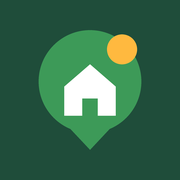
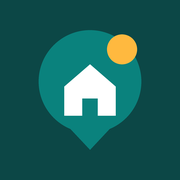
サイトの色を落ち着いた青緑に変え、見た目の気になる点を直す
- 帯・ボタン・ロゴ・グラフの色を青緑に（暗い画面用、タブのアイコン、シェア画像も）。ボタンの白い文字が読める濃さにした
- トップの「最近できたグループホーム」の都道府県一覧をたたむ（スマホ。パソコンは開いたまま）
- 検索欄の例文を短くして、スマホで切れないようにした
- トップの「2026.9」を「2026年9月末」の表示に
- パソコンの事業所ページを左右2列にして、右側の空きをなくした

Claude-Session: https://claude.ai/code/session_01NypjdTHjaH8SLm9PPpyy4n

Changed region(s): [[0.1944, 0.1667, 0.8056, 0.8333]]

diff --git a/site/assets/site.css b/site/assets/site.css
@@ -1,29 +1,29 @@
 /* ジモふく
    Layout: 白いヘッダーの下に、地図を思わせる点模様の濃紺の帯（見出し・検索・タイル地図）。
-   帯は若葉色の深い緑。本文は明るい紙面に「目的」と「地域」の入口を大きく並べ、データは下にまとめる。
+   帯は深い青緑。本文は明るい紙面に「目的」と「地域」の入口を大きく並べ、データは下にまとめる。
    書体は丸ゴシック（見出し）＋ UD ゴシック（本文、読みやすさ優先）＋ 細長い欧文（数字）。 */
 :root {
-  --ink: #1f4d3a;          /* 帯の地色（深い緑） */
-  --ink-2: #2c6650;
-  --on-ink: #f4faf5;
-  --on-ink-muted: #b9d6c4;
-  --bg: #f6f9f4;
+  --ink: #0c4746;          /* 帯の地色（深い青緑） */
+  --ink-2: #155f5c;
+  --on-ink: #f2fbfa;
+  --on-ink-muted: #a8d5d0;
+  --bg: #f3f9f8;
   --surface: #ffffff;
-  --fg: #1c2a21;
-  --muted: #5b6c60;
-  --line: #dfe8db;
-  --brand: #3d9a58;        /* ジモふくの若葉色。ロゴ・ボタン・強調 */
+  --fg: #16292a;
+  --muted: #566b6a;
+  --line: #d8e8e6;
+  --brand: #0a827d;        /* ジモふくの青緑。ロゴ・ボタン・強調（白い文字が読める濃さ） */
   --on-brand: #ffffff;
-  --accent: #2d7a45;       /* 文字やグラフの緑（白地で読める濃さ） */
-  --accent-on-ink: #a6e8b4;
-  --accent-soft: #e2f2e2;
-  --bar: #b2dbb9;
+  --accent: #0b736f;       /* 文字やグラフの青緑（白地で読める濃さ） */
+  --accent-on-ink: #8fe3da;
+  --accent-soft: #dcf2ef;
+  --bar: #a7dcd6;
   --sun: #ffb93f;          /* 「新しい」を示す黄色 */
   --sun-soft: #fff2d6;
   --hot: #c46a10;
-  --up: #1d7a40;
+  --up: #0b736f;
   --down: #b3392c;
-  --shadow: 0 1px 2px rgb(31 77 58 / .06), 0 6px 20px rgb(31 77 58 / .06);
+  --shadow: 0 1px 2px rgb(12 71 70 / .06), 0 6px 20px rgb(12 71 70 / .06);
   --f-display: "Zen Maru Gothic", "Hiragino Maru Gothic ProN", "Hiragino Kaku Gothic ProN", "Yu Gothic", sans-serif;
   --f-body: "BIZ UDPGothic", "Hiragino Kaku Gothic ProN", "Yu Gothic", Meiryo, sans-serif;
   --f-num: "Barlow Semi Condensed", "BIZ UDPGothic", sans-serif;
@@ -32,10 +32,10 @@
 }
 @media (prefers-color-scheme: dark) {
   :root {
-    --ink: #12301f; --ink-2: #1c4430; --on-ink: #eef7f0; --on-ink-muted: #9dbca9;
-    --bg: #0f1612; --surface: #17211b; --fg: #e5ede7; --muted: #9aab9f; --line: #27352c;
-    --brand: #5cbf74; --on-brand: #0b2414; --accent: #7fd494; --accent-on-ink: #a6e8b4; --accent-soft: #1d3a26; --bar: #356b44;
-    --sun: #ffcf5c; --sun-soft: #3a3118; --hot: #f0a050; --up: #6ccf8c; --down: #ef8a7c;
+    --ink: #0a2e2d; --ink-2: #134443; --on-ink: #eef8f7; --on-ink-muted: #9cc3bf;
+    --bg: #0e1616; --surface: #162121; --fg: #e4eeed; --muted: #98abaa; --line: #263636;
+    --brand: #3fbfb7; --on-brand: #062423; --accent: #6fd6cc; --accent-on-ink: #8fe3da; --accent-soft: #173a38; --bar: #2f6b67;
+    --sun: #ffcf5c; --sun-soft: #3a3118; --hot: #f0a050; --up: #6fd6cc; --down: #ef8a7c;
     --shadow: 0 1px 2px rgb(0 0 0 / .3);
     color-scheme: dark;
   }
@@ -536,4 +536,20 @@ button.act.fav[aria-pressed="true"] i { color: var(--hot); }
   .sv-table { border: 0; overflow: visible; }
   .sv-cmp { font-size: 8.5pt; }
   .sv-cmp th, .sv-cmp td { min-width: 0; padding: 4px 5px; border-color: #999; }
+}
+
+/* トップの「最近できたグループホーム」：都道府県の一覧はたたんでおく（パソコンでは開いた状態） */
+.fold { background: var(--surface); border: 1px solid var(--line); border-radius: var(--radius); }
+.fold summary { cursor: pointer; padding: 12px 14px; display: flex; gap: 10px; font-weight: 700; list-style: none; }
+.fold summary::-webkit-details-marker { display: none; }
+.fold summary .c { margin-left: auto; color: var(--muted); font-weight: 400; font-size: 13px; }
+.fold summary::after { content: "＋"; color: var(--muted); font-weight: 400; }
+.fold[open] summary::after { content: "－"; }
+.fold .pref-grid { padding: 0 12px 12px; }
+.stats .v small { font-family: var(--f-body); font-size: .5em; font-weight: 700; margin: 0 .1em; }
+/* 事業所ページ：パソコンでは基本情報を左、サービスや近くの事業所を右に並べる */
+.fac-cols, .fac-main, .fac-side { display: grid; gap: 56px; min-width: 0; align-content: start; }
+@media (min-width: 960px) {
+  .fac-cols { grid-template-columns: minmax(0, 1.1fr) minmax(0, 1fr); gap: 0 40px; align-items: start; }
+  .fac-side { gap: 40px; }
 }

diff --git a/scripts/build.py b/scripts/build.py
@@ -399,7 +399,7 @@ def tilemap(values: dict, links: dict, titles: dict, caption: str, legend_lo: st
 SEARCH_FORM = """<form class="search" id="search" role="search">
   <label for="q">施設名・法人名・市区町村名でさがす</label>
   <div class="field"><svg viewBox="0 0 20 20" aria-hidden="true"><circle cx="8.5" cy="8.5" r="6" fill="none" stroke="currentColor" stroke-width="2"/><path d="M13 13l5 5" stroke="currentColor" stroke-width="2" stroke-linecap="round"/></svg>
-  <input id="q" type="search" placeholder="例：フレンド、江別市、社会福祉法人〇〇" autocomplete="off" enterkeyhint="search"></div>
+  <input id="q" type="search" placeholder="例：江別市、フレンド" autocomplete="off" enterkeyhint="search"></div>
   <p class="status" aria-live="polite"></p>
   <ul class="results"></ul>
 </form>"""
@@ -431,7 +431,7 @@ def page(path: str, title: str, desc: str, hero: str, body: str, scripts: str = 
 <meta property="og:type" content="website">
 <meta property="og:site_name" content="{SITE_NAME}">
 <meta property="og:url" content="{E(canonical)}">{OG_META.format(url=E(SITE_URL + "/" + urllib.parse.quote(og))) if ogp.ENABLED and og else ""}
-<meta name="theme-color" content="#1f4d3a">
+<meta name="theme-color" content="#0c4746">
 <link rel="icon" href="{rel}favicon.ico" sizes="48x48">
 <link rel="icon" href="{rel}favicon.svg" type="image/svg+xml">
 <link rel="icon" href="{rel}icon-192.png" type="image/png" sizes="192x192">
@@ -690,7 +690,7 @@ def build():
   <div><span class="v">{tot:,}</span><span class="k">掲載している事業所（延べ）</span></div>
   <div><span class="v">{delta(tot - tot0)}</span><span class="k">この半年の増減</span></div>
   <div><span class="v">{len(FRESH):,}</span><span class="k">この1年でできたグループホーム</span></div>
-  <div><span class="v">{latest[:4]}.{int(latest[4:])}</span><span class="k">最新データ（{E(LATEST_LABEL)}時点）</span></div>
+  <div><span class="v">{latest[:4]}<small>年</small>{int(latest[4:])}<small>月末</small></span><span class="k">最新データの時点</span></div>
 </div>"""
 
     fresh_top = ""
@@ -699,7 +699,8 @@ def build():
         grid = "".join(f'<a href="{href("", ps_path(pi, GH))}#fresh"><span>{PREFS[pi]}</span><span class="c">{fc.get(pi, 0):,}</span></a>' for pi in range(47))
         fresh_top = (f'<section id="fresh" class="feature"><div class="feature-h"><span class="badge">NEW</span><h2>最近できたグループホーム</h2></div>'
                      f'<p class="sec-sub">この1年で新しく公表データに載ったグループホームは全国に<b>{len(FRESH):,}件</b>。できたばかりの事業所は入居者を募集していることが多く、入居先を探す手がかりになります。都道府県を選ぶと一覧が見られます。</p>'
-                     f'<div class="pref-grid">{grid}</div></section>')
+                     f'<details class="fold" id="fresh-fold"><summary>都道府県を選ぶ<span class="c">47都道府県</span></summary><div class="pref-grid">{grid}</div></details>'
+                     '<script>if(matchMedia("(min-width: 760px)").matches)document.getElementById("fresh-fold").open=true</script></section>')
     inc = sorted(all_munis, key=lambda mk: (-(muni_total[latest][mk] - muni_total[prev][mk]), -muni_total[latest][mk]))[:15]
     inc_rows = "".join(
         f'<tr><td class="r tnum">{i + 1}</td><td class="name"><a href="{href("", muni_path(*mk))}">{E(PREFS[mk[0]] + " " + mk[1])}</a></td>'
@@ -1365,15 +1366,15 @@ def build_facilities(S, codes, periods, latest, new_nos):
         muni_html, muni_n, muni_more = fac_links(by_muni[(mk, m)]) if mk else ("", 0, 0)
         short = SERVICES[m][1]
         corp_more_note = f'<p class="note">ほか{corp_more}件は<a href="{href(rel, corp_path(o["corp_key"]))}">法人のページ</a>へ。</p>' if corp_more > 0 and corp_path(o["corp_key"]) else (f'<p class="note">ほか{corp_more}件。</p>' if corp_more > 0 else "")
-        body = f"""
+        body = f"""<div class="fac-cols"><div class="fac-main">
 <section><h2>基本情報</h2>
 <div class="table-wrap"><table class="info"><tbody>{info_html}</tbody></table></div>
 <p class="note">{E(LATEST_LABEL)}時点の国の公表データです。空き状況や費用などは、事業所に直接お問い合わせください。</p>
-<p class="note">「保存する」を押すと、<a href="{rel}saved/">保存した事業所</a>のページで、ほかの事業所と並べて比べたり、地図つきの一覧を印刷したりできます。</p>{fav_json}</section>
+<p class="note">「保存する」を押すと、<a href="{rel}saved/">保存した事業所</a>のページで、ほかの事業所と並べて比べたり、地図つきの一覧を印刷したりできます。</p>{fav_json}</section></div><div class="fac-side">
 <section><h2>行っているサービス</h2><p class="sec-sub">同じ事業所番号で公表されているサービスです。サービス名を押すと、{E(mk[1] if mk else pref)}の同じサービスの事業所が見られます。</p><div class="dir"><details open><summary>サービス<span class="c">{len(cs)}種類</span></summary><ul>{svcs}</ul></details></div></section>
 {f'<section><h2>公表データに載っている住居</h2><p class="sec-sub">グループホームは複数の住居を持つことがありますが、公表データにすべての住居が載っているとは限りません。</p><div class="dir"><details open><summary>住居<span class="c">{len(o["houses"])}か所</span></summary><ul>{houses}</ul></details></div></section>' if m == GH and len(o["houses"]) > 1 else ''}
 {f'<section><h2>{E(o["corp"])}のほかの事業所</h2><div class="dir"><details open><summary>同じ法人<span class="c">{corp_n}件</span></summary><ul>{corp_html}</ul></details></div>{corp_more_note}</section>' if corp_html else ''}
-{f'<section><h2>{E(mk[1])}のほかの{E(short)}</h2><div class="dir"><details><summary>同じ市区町村<span class="c">{muni_n}件</span></summary><ul>{muni_html}</ul></details></div><p class="note"><a href="{href(rel, ms_path(*mk, m))}">{E(mk[1])}の{E(short)}をすべて見る</a></p></section>' if muni_html else ''}"""
+{f'<section><h2>{E(mk[1])}のほかの{E(short)}</h2><div class="dir"><details><summary>同じ市区町村<span class="c">{muni_n}件</span></summary><ul>{muni_html}</ul></details></div><p class="note"><a href="{href(rel, ms_path(*mk, m))}">{E(mk[1])}の{E(short)}をすべて見る</a></p></section>' if muni_html else ''}</div></div>"""
         if list(cs) == [GH]:
             title = f"{name}（{place}）のグループホーム情報"
         else:

diff --git a/scripts/ogp.py b/scripts/ogp.py
@@ -9,9 +9,9 @@ import pathlib
 ROOT = pathlib.Path(__file__).resolve().parent.parent
 FONTS = ROOT / ".fonts"
 W, H = 1200, 630
-INK, INK2 = (31, 77, 58), (44, 102, 80)
-ON, MUTED, LEAF, SUN = (244, 250, 245), (185, 214, 196), (166, 232, 180), (255, 185, 63)
-BRAND = (61, 154, 88)
+INK, INK2 = (12, 71, 70), (21, 95, 92)
+ON, MUTED, LEAF, SUN = (242, 251, 250), (168, 213, 208), (143, 227, 218), (255, 185, 63)
+BRAND = (10, 130, 125)
 
 try:
     from PIL import Image, ImageDraw, ImageFont
@@ -93,7 +93,7 @@ def make(dest: pathlib.Path, eyebrow: str, title: str, number=None, unit="", lin
         for ln in lines[:3]:
             d.text((x, y), ln, font=_fit(d, ln, "bold", 34, right - x, 20), fill=MUTED)
             y += 52
-    d.rectangle((0, H - 64, W, H), fill=(22, 58, 43))
+    d.rectangle((0, H - 64, W, H), fill=(8, 52, 51))
     d.text((x, H - 50), foot or "jimofuku.jp", font=font("bold", 24), fill=MUTED)
     dest.parent.mkdir(parents=True, exist_ok=True)
     # 色数を減らすと 1 枚 20KB ほどになる（そのままだと 80KB）

diff --git a/scripts/make_icons.py b/scripts/make_icons.py
@@ -9,7 +9,7 @@ from PIL import Image, ImageDraw
 
 ROOT = pathlib.Path(__file__).resolve().parent.parent
 DEST = ROOT / "site" / "root"
-BRAND, SUN, INK, WHITE = "#3d9a58", "#ffb93f", "#1f4d3a", "#ffffff"
+BRAND, SUN, INK, WHITE = "#0a827d", "#ffb93f", "#0c4746", "#ffffff"
 # LOGO と同じ形（viewBox 0 0 32 32）。背景は透明
 SVG = f"""<svg xmlns="http://www.w3.org/2000/svg" viewBox="0 0 32 32"><path d="M16 2C9.4 2 4 7.3 4 13.9 4 22.6 16 30 16 30s12-7.4 12-16.1C28 7.3 22.6 2 16 2z" fill="{BRAND}"/><path d="M10 15.2 16 10l6 5.2V21a1 1 0 0 1-1 1h-3.2v-4h-3.6v4H11a1 1 0 0 1-1-1z" fill="{WHITE}"/><circle cx="23.5" cy="6.5" r="3.5" fill="{SUN}"/></svg>
 """
